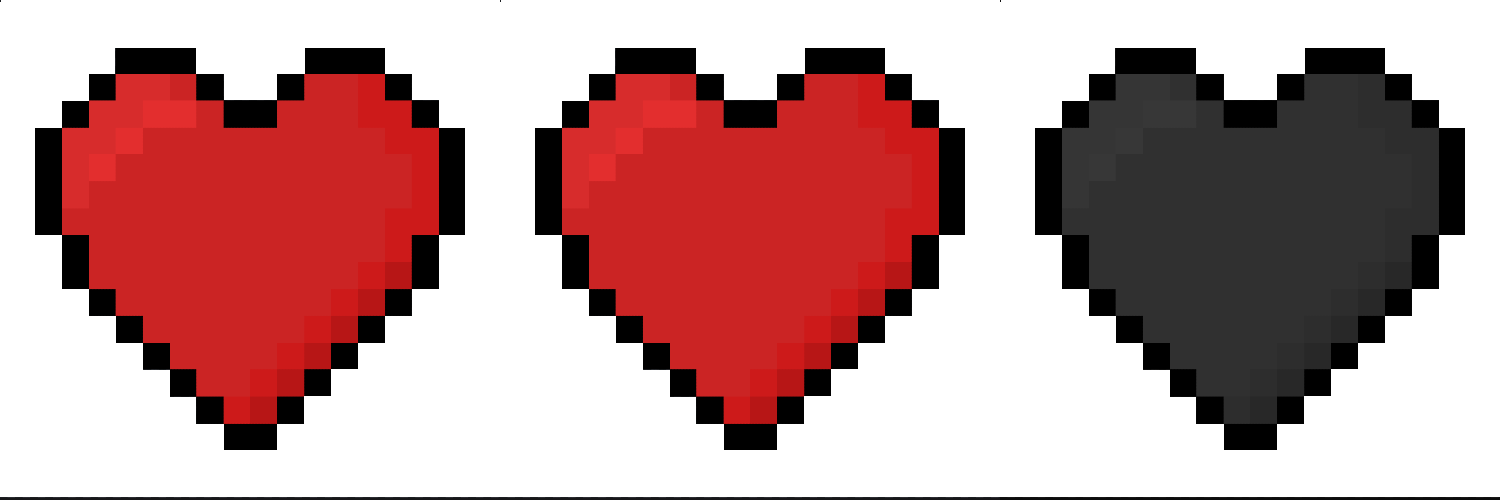
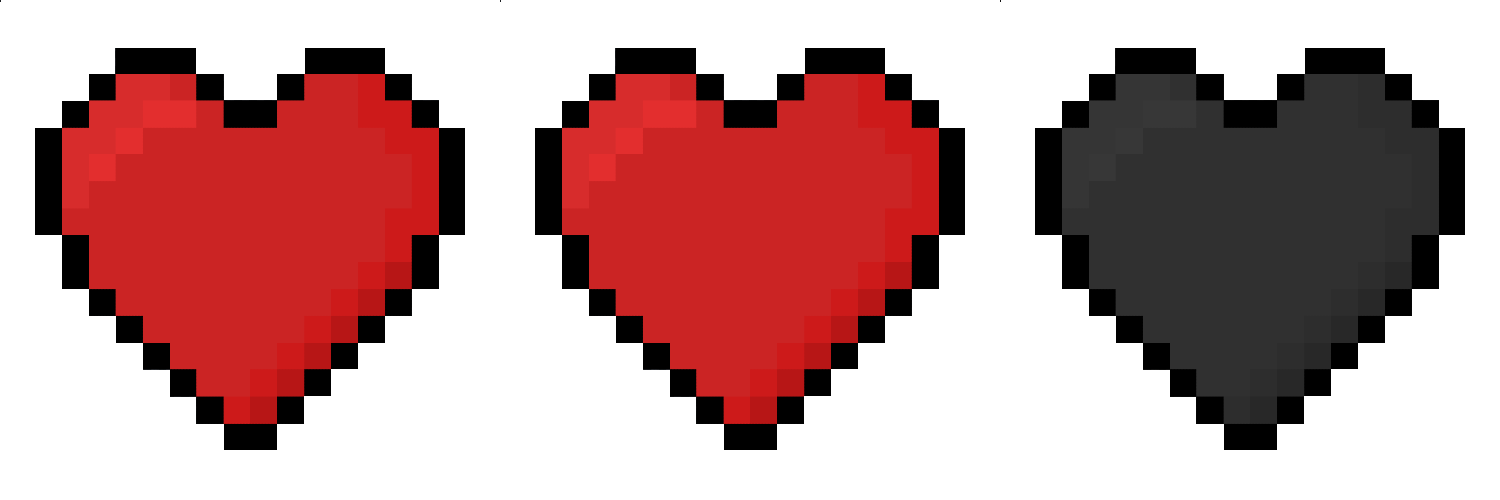
feat: add lifes art into game
Add lifes image in-game, that changes accordingly to your current life, minor fixes to lifes splash

Changed region(s): [[0.0, 0.99, 1.0, 1.0]]

diff --git a/src/components/player/index.jsx b/src/components/player/index.jsx
@@ -163,14 +163,36 @@ function App() {
         else if (player.status == 'Dead') {document.getElementById('start-btn').style.display = ''};
     }, [status])
 
+// Lifes - Image
+    const [currentLife, setCurrentLife] = useState("src/images/3_hearts.png")
+    useEffect(() =>{
+        if (lifes == 3) {
+            setCurrentLife("src/images/3_hearts.png")
+        }
+        else if (lifes == 2) {
+            setCurrentLife("src/images/2_hearts.png")
+        }
+        else if (lifes == 1) {
+            setCurrentLife("src/images/1_heart.png")
+        }
+        else if (lifes == 0) {
+            setCurrentLife("src/images/0_hearts.png")
+        }
+
+    }, [lifes])
+
+
+
     return(
+        player,
+
         <>
             <div id='scoreboard' style={{display: 'block'}}>
                 <div id='score'>Score: {player.score}</div>
                 <div id='multiplier'>{player.multiplier}x</div>
                 <div id='streak'>Streak: {player.streak}</div>
                 <div id='difficulty'>Difficulty: {player.difficulty}</div>
-                <div id='lifes'>Lifes: {player.lifes}</div>
+                <div id='lifes'><img src={currentLife} alt="" /></div>
                 <div id='highscore'>Highscore: {player.highscore}</div> 
             </div>
             <div id='prompt'>

diff --git a/src/components/player/scoreboard.css b/src/components/player/scoreboard.css
@@ -3,40 +3,11 @@
 }
 
 #scoreboard {
-    position: relative;
+    position: absolute;
     width: 50%;
     height: 80vh;
     margin: auto;
     border: 1px solid red;
-}
-
-#scoremulti {
-    display: flex;
-    justify-content: center;
-    width: 25%;
-    padding: 10px;
-    margin: auto;
-
-    position: relative;
-}
-
-
-#scoremulti :nth-child(1) {
-    font-weight: bolder;
-    font-size: 20px;
-    text-align: center;
-    position: absolute;
-    top: 8px;
-}
-
-#scoremulti :nth-child(2) {
-    font-size: 12px;
-    position: absolute;
-    top: 4px;
-    height: 50px;
-    display: flex;
-    align-items: center;
-    right: 75px;
 }
 
 #highscore {
@@ -48,11 +19,12 @@
 }
 
 #lifes {
-    font-weight: bolder;
-    top: 52px;
-    text-align: center;
-    width: 100%;
-    position: absolute;
+    position: relative;
+    bottom: 0;
+}
+
+#lifes img {
+    height: 75px;
 }
 
 #difficulty {
